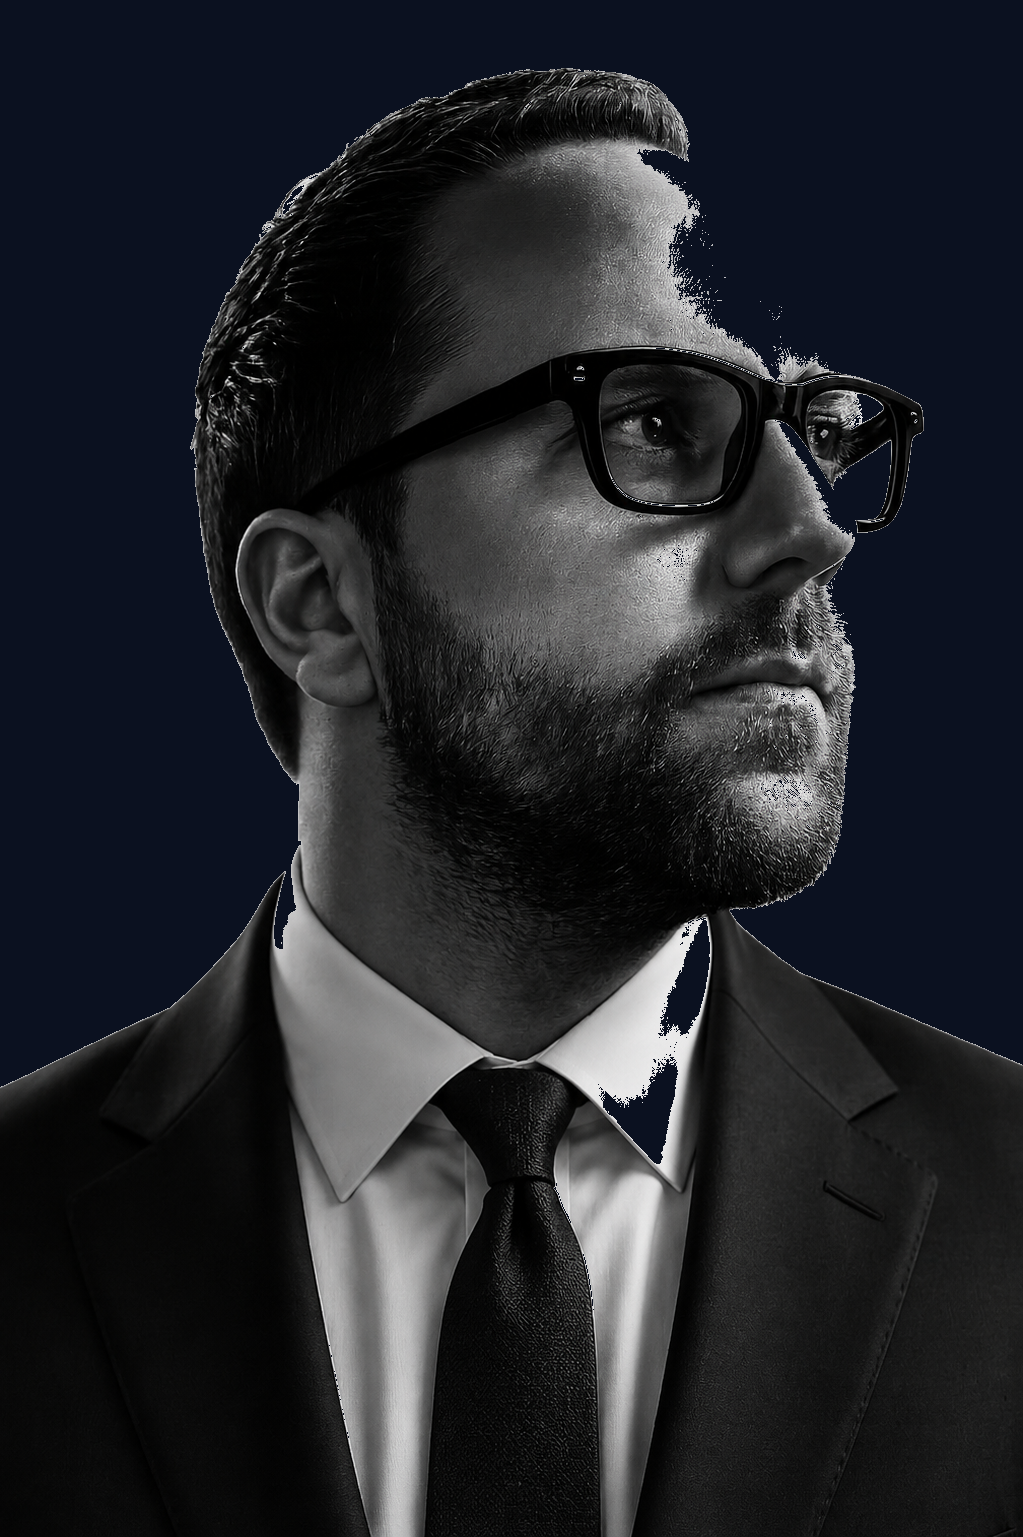
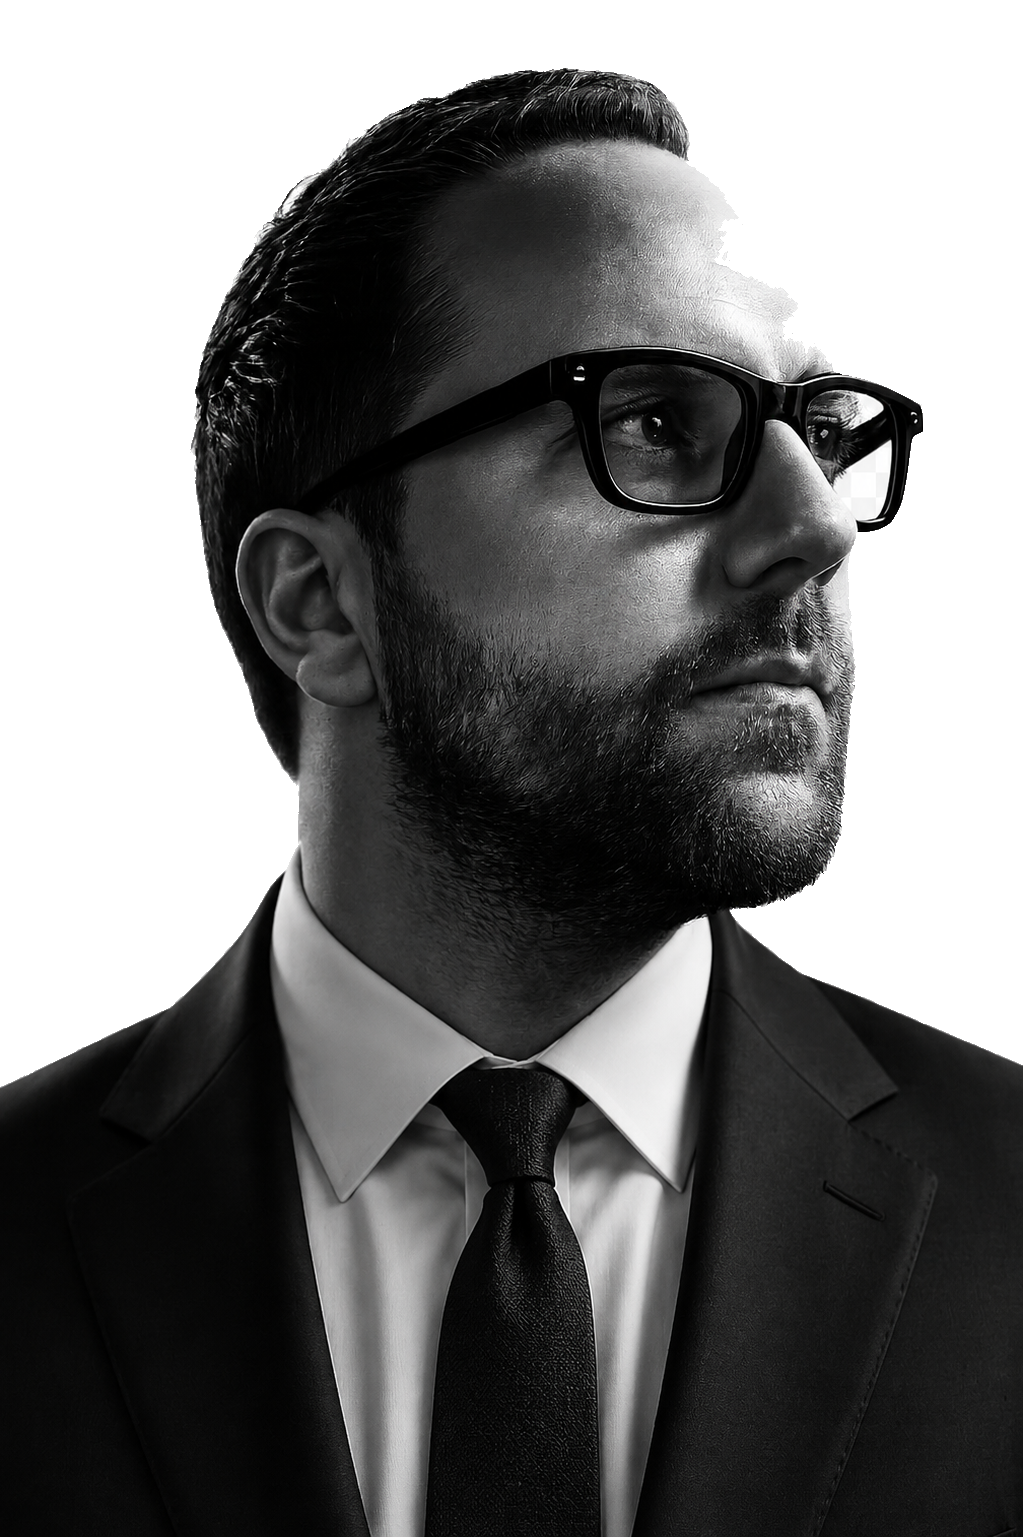
Use raw transparent portraits (no mask/blend), full figure
Per feedback: drop the radial-mask blend and navy-fill; make the cutouts
truly transparent and show the full figure (object-contain), so the portraits
sit as-is on the dark canvas instead of being cropped/over-blended. Band and
About panels made frameless so the figure emerges directly.

Known limitation: the B&W hair edge retains a faint light fringe because the
source file is opaque (baked checkerboard, no real alpha) and threshold matting
can't cleanly cut light hair. A real transparent export or pro matte fixes it.

diff --git a/src/components/HomeView.tsx b/src/components/HomeView.tsx
@@ -100,12 +100,13 @@ export default function HomeView({ setActiveTab }: HomeViewProps) {
           <div className="grid grid-cols-1 lg:grid-cols-12 gap-10 lg:gap-14 items-center">
             {/* Color half-body on a clean white panel (white bg melts, no filters) */}
             <Item className="lg:col-span-6">
-              <div className="relative rounded-[1.75rem] bg-paper border border-line shadow-[0_36px_80px_-46px_rgba(0,0,0,0.7)] overflow-hidden aspect-[5/6] lg:aspect-[4/5] lg:min-h-[620px]">
+              <div className="relative rounded-[1.75rem] overflow-hidden aspect-[5/6] lg:aspect-[4/5] lg:min-h-[620px]">
+                <div aria-hidden="true" className="absolute inset-0 rounded-[1.75rem] bg-[radial-gradient(120%_90%_at_50%_18%,rgba(224,138,79,0.14),transparent_62%)]" />
                 <img
                   src="/david-about.png"
                   alt="David Peterson"
                   loading="lazy"
-                  className="absolute inset-0 w-full h-full object-cover object-top select-none"
+                  className="absolute inset-0 w-full h-full object-contain object-bottom select-none"
                 />
               </div>
             </Item>

diff --git a/src/components/AboutView.tsx b/src/components/AboutView.tsx
@@ -77,8 +77,8 @@ export default function AboutView({ setActiveTab }: AboutViewProps) {
             <PhotoFrame
               src="/david-about.png"
               alt="David Peterson"
-              className="relative z-10 aspect-[4/5] w-full rounded-[2.25rem] border border-line bg-paper shadow-[0_50px_90px_-45px_rgba(0,0,0,0.8)]"
-              imgClassName="object-cover object-top"
+              className="relative z-10 aspect-[4/5] w-full rounded-[2.25rem] overflow-hidden"
+              imgClassName="object-contain object-bottom"
             />
           </motion.div>
         </div>

diff --git a/src/components/HeroCreative.tsx b/src/components/HeroCreative.tsx
@@ -164,7 +164,7 @@ export default function HeroCreative({ onNav }: { onNav: (t: string) => void }) 
             initial={{ opacity: 0, y: 24 }}
             animate={{ opacity: 1, y: 0 }}
             transition={{ duration: 1, ease: [0.16, 1, 0.3, 1], delay: 0.15 }}
-            className="absolute inset-0 mx-auto w-auto h-full max-h-[640px] object-contain object-bottom -scale-x-100 select-none [mask-image:radial-gradient(115%_125%_at_52%_42%,#000_55%,transparent_96%)]"
+            className="absolute inset-0 mx-auto w-auto h-full max-h-[660px] object-contain object-center -scale-x-100 select-none"
           />
 
           {badges.map((b, i) => {